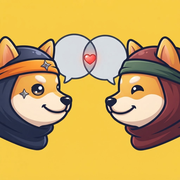
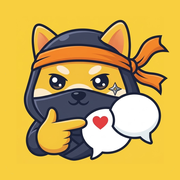
アイコンを柴犬の忍者（黄の地・型どおり）に作り直し

diff --git a/index.html b/index.html
@@ -8,9 +8,9 @@
 <meta name="theme-color" content="#ff8a3d">
 <link rel="canonical" href="https://kyoutsu.kkpwebninja.com/">
 <!-- WEBNINJA_UNIFIED_FAVICON -->
-<link rel="icon" type="image/png" sizes="32x32" href="/favicon.png">
-<link rel="icon" type="image/png" sizes="192x192" href="/favicon-192.png">
-<link rel="apple-touch-icon" sizes="180x180" href="/apple-touch-icon.png">
+<link rel="icon" type="image/png" sizes="32x32" href="/favicon.png?v=2">
+<link rel="icon" type="image/png" sizes="192x192" href="/favicon-192.png?v=2">
+<link rel="apple-touch-icon" sizes="180x180" href="/apple-touch-icon.png?v=2">
 
 <meta property="og:title" content="共通点探しゲーム｜話しながら数える・お題で一斉オープン">
 <meta property="og:description" content="見つけた共通点を数える帯と、お題150問の一斉オープン。2〜6人・配信のコラボにも。">
